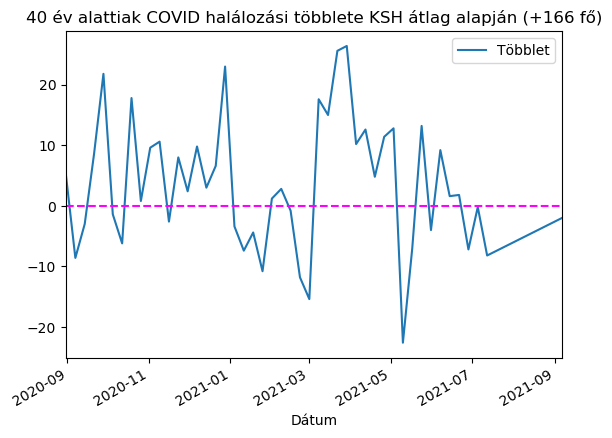
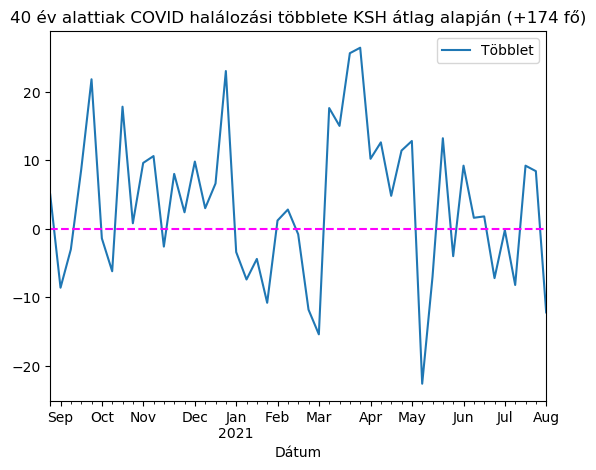
Javítás: fiatalok halálozási többlete

Changed region(s): [[0.0, 0.0, 0.9966, 0.9498], [0.453, 0.9498, 0.5738, 0.9795]]

diff --git a/kép_fiatal_halálozások.py b/kép_fiatal_halálozások.py
@@ -5,17 +5,19 @@ import pandas as pd
 import numpy as np
 import datetime as dt
 import os
+from datetime import timedelta
 
 BASEDIR=os.path.dirname(__file__)
 
 df = pd.read_csv(BASEDIR +"/adatok/stadat-halalozas-elokeszitve.csv", parse_dates=['A hét kező napja', 'A hét záró napja'], delimiter=';')
-dfweeks = df[(df['A hét sorszáma'] < 29.0) | (df['A hét sorszáma'] > 35.0)]
+maxdate = df['A hét kező napja'].max() + timedelta(days = -35)
+df = df[df['A hét kező napja'] <= maxdate]
 
-df2020 = dfweeks[dfweeks['A hét záró napja'] > "2020-08-30"]
+df2020 = df[df['A hét záró napja'] > "2020-08-30"]
 df2020['2020/21 elhunytak'] = df2020['Összesen 034 éves'] + df2020['Összesen 3539 éves']
 covid_elhunytak = df2020[['A hét kező napja', 'A hét sorszáma', '2020/21 elhunytak']]
 
-dfatlag = dfweeks[dfweeks['A hét záró napja'] < "2020-01-01"]
+dfatlag = df[df['A hét záró napja'] < "2020-01-01"]
 
 dfatlag = dfatlag.groupby('A hét sorszáma').mean().reset_index()
 dfatlag['Elhunytak'] = dfatlag['Összesen 034 éves'] + dfatlag['Összesen 3539 éves']
